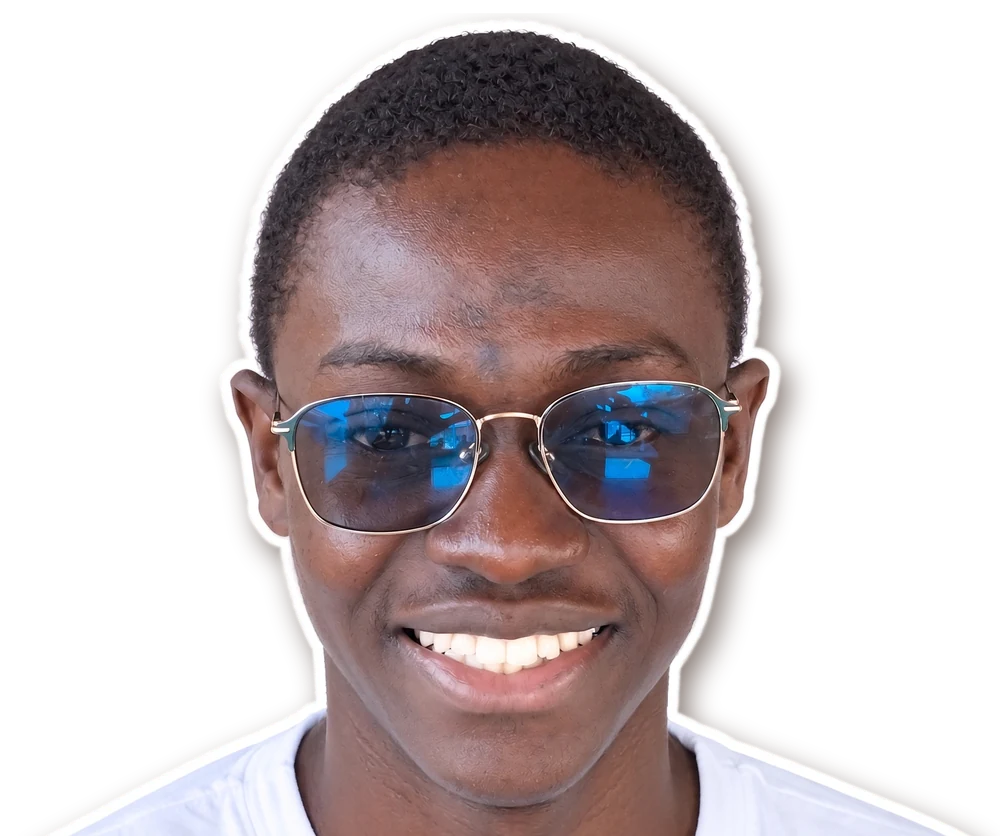
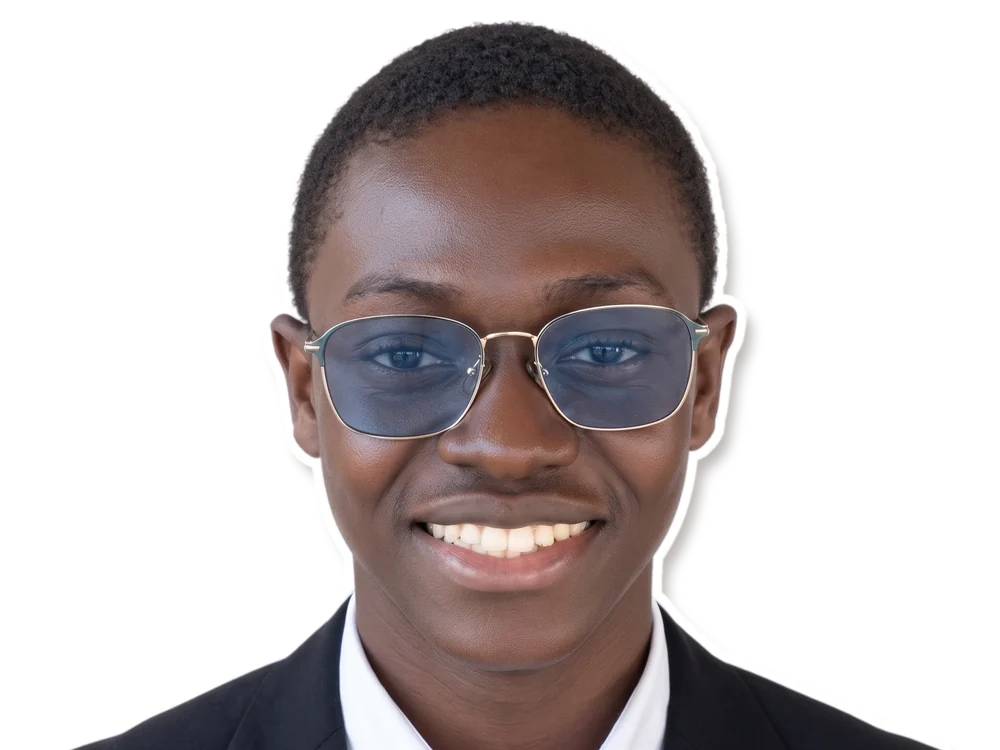
feat(hero): nouveau portrait costume sur desktop

diff --git a/app/page.tsx b/app/page.tsx
@@ -175,7 +175,7 @@ export default function Home() {
               alt="Koffi N'gouan Emmanuel, développeur web et mobile"
               className="hero-photo"
               width={1000}
-              height={836}
+              height={750}
               fetchPriority="high"
             />
           </picture>

diff --git a/RECAP.md b/RECAP.md
@@ -185,6 +185,8 @@ vérifiées à chaque fois sur :3000 via Chrome. **Toujours rien commité.**
 ### Photo
 - Source : portrait Gemini fond blanc → `public/koffi-portrait.jpg`. Détourage local `rembg` (`u2net_human_seg`,
   alpha matting), fichier brut conservé dans `%TEMP%\cut_raw.png` (à régénérer si absent).
+- **2026-09-26** : desktop remplacé par portrait costume (source racine `Apply_frequency_separation_and_suit_2K_*.jpeg`),
+  sticker régénéré 1000×750 (~56 Ko), même recette (contour r=20 à 2000 px, ombre 18/26) ; mobile inchangé.
 - Sticker `public/koffi-portrait.webp` (1000×836, ~100 Ko) fabriqué en Python/PIL :
   1. recadrage **juste avant** que le t-shirt touche les bords (sinon bords verticaux visibles), tête recentrée ;
   2. marge haute + 60 px gardés sous la coupe, masque flouté 1.2 px ;
